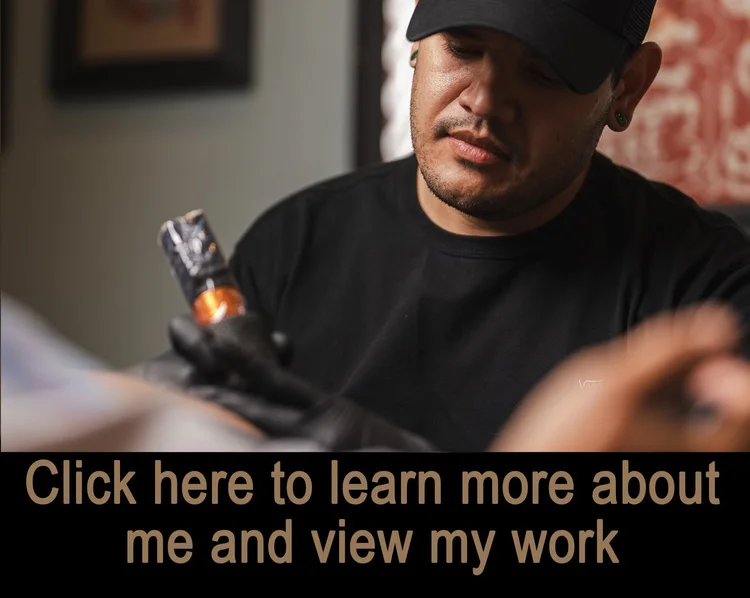
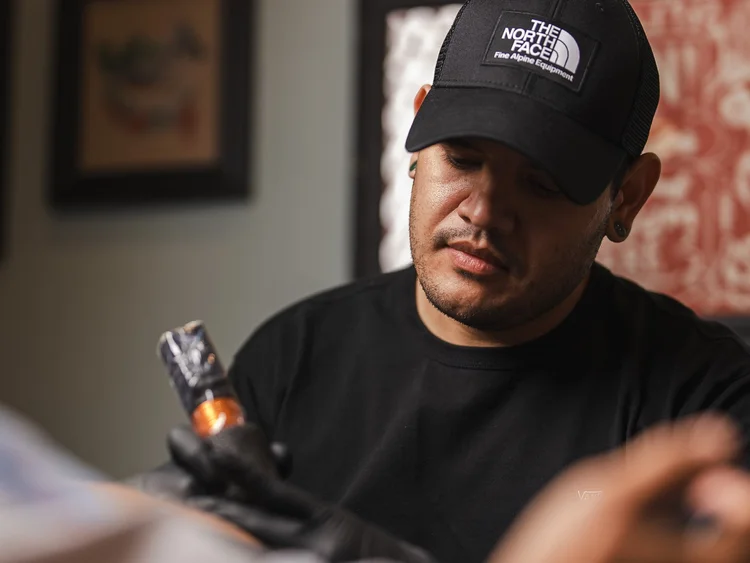
feat: clean artist photos, comprehensive SEO, and AI discoverability
- Replace artist profile photos with clean versions (no Squarespace overlay)
- Schema.org structured data: TattooParlor + LocalBusiness on homepage
  with AggregateRating, reviews, employees, services, and area served
- FAQ structured data on info page for Google rich results
- SEO-optimized title tags with location keywords on all 7 pages
- Canonical URLs on all pages
- sitemap.xml with all pages
- robots.txt with sitemap reference
- llms.txt for AI assistant discoverability (ChatGPT, Claude, etc.)

diff --git a/public/index.html b/public/index.html
@@ -3,7 +3,7 @@
 <head>
   <meta charset="UTF-8">
   <meta name="viewport" content="width=device-width, initial-scale=1.0">
-  <title>Powerline Tattoo — New England's Premier Custom Tattoo Studio</title>
+  <title>Powerline Tattoo | Custom Tattoo Shop in Cranston RI — Award-Winning Artists</title>
   <meta name="description" content="Powerline Tattoo in Cranston, RI — New England's premier custom tattoo studio. Award-winning artists, appointment only. Realism, traditional, neo-traditional, and more.">
   <meta property="og:title" content="Powerline Tattoo — New England's Premier Custom Tattoo Studio">
   <meta property="og:description" content="Award-winning custom tattoo studio in Cranston, Rhode Island. 9 talented artists, appointment only.">
@@ -14,6 +14,105 @@
   <link rel="preconnect" href="https://fonts.googleapis.com">
   <link href="https://fonts.googleapis.com/css2?family=Inter:wght@300;400;600;700&family=Montserrat:wght@300;600;700;800&display=swap" rel="stylesheet">
   <link rel="stylesheet" href="/css/styles.css">
+  <link rel="canonical" href="https://powerlinetattoo.com/">
+  <script type="application/ld+json">
+  {
+    "@context": "https://schema.org",
+    "@type": "TattooParlor",
+    "name": "Powerline Tattoo",
+    "alternateName": "PowerLine Tattoo",
+    "description": "New England's #1 custom tattoo studio. Award-winning artists specializing in realism, neo-traditional, American traditional, black & grey, and more. Appointment only.",
+    "url": "https://powerlinetattoo.com",
+    "telephone": "+1-401-369-7771",
+    "email": "powerlinetattoo@gmail.com",
+    "address": {
+      "@type": "PostalAddress",
+      "streetAddress": "706 Reservoir Avenue",
+      "addressLocality": "Cranston",
+      "addressRegion": "RI",
+      "postalCode": "02910",
+      "addressCountry": "US"
+    },
+    "geo": {
+      "@type": "GeoCoordinates",
+      "latitude": 41.7721,
+      "longitude": -71.4352
+    },
+    "image": "https://powerlinetattoo.com/images/shop/shop-01.jpg",
+    "logo": "https://powerlinetattoo.com/images/logo/powerline-logo.png",
+    "priceRange": "$$",
+    "openingHoursSpecification": {
+      "@type": "OpeningHoursSpecification",
+      "dayOfWeek": ["Monday","Tuesday","Wednesday","Thursday","Friday","Saturday"],
+      "description": "By Appointment Only"
+    },
+    "sameAs": [
+      "https://www.instagram.com/powerlinetattoo",
+      "https://www.instagram.com/evanolintattoo"
+    ],
+    "aggregateRating": {
+      "@type": "AggregateRating",
+      "ratingValue": "4.9",
+      "reviewCount": "312",
+      "bestRating": "5"
+    },
+    "review": [
+      {
+        "@type": "Review",
+        "author": {"@type": "Person", "name": "Mike R."},
+        "reviewRating": {"@type": "Rating", "ratingValue": "5"},
+        "reviewBody": "I drove two hours to get tattooed at Powerline and I'd do it again in a heartbeat. The artist took my rough idea and turned it into something beyond what I imagined."
+      },
+      {
+        "@type": "Review",
+        "author": {"@type": "Person", "name": "Sarah T."},
+        "reviewRating": {"@type": "Rating", "ratingValue": "5"},
+        "reviewBody": "I was nervous about getting my first tattoo but the whole team made me feel completely at ease. This is the only shop I'll go to."
+      },
+      {
+        "@type": "Review",
+        "author": {"@type": "Person", "name": "James D."},
+        "reviewRating": {"@type": "Rating", "ratingValue": "5"},
+        "reviewBody": "I've been tattooed at shops across New England and Powerline is a cut above. Professional, clean, and the artists genuinely care about doing exceptional work."
+      }
+    ],
+    "employee": [
+      {"@type": "Person", "name": "Evan Olin", "jobTitle": "Owner & Lead Artist", "sameAs": "https://www.instagram.com/evanolintattoo"},
+      {"@type": "Person", "name": "Mike Ledoux", "jobTitle": "Tattoo Artist", "sameAs": "https://www.instagram.com/mledouxtattoo"},
+      {"@type": "Person", "name": "Mikey Romasco", "jobTitle": "Tattoo Artist", "sameAs": "https://www.instagram.com/mikeyffresh"},
+      {"@type": "Person", "name": "Andy Large", "jobTitle": "Tattoo Artist", "sameAs": "https://www.instagram.com/andylargetattoo"},
+      {"@type": "Person", "name": "Andrey Vasilyev", "jobTitle": "Tattoo Artist", "sameAs": "https://www.instagram.com/andreytattooing"},
+      {"@type": "Person", "name": "DJ Lebeau", "jobTitle": "Tattoo Artist", "sameAs": "https://www.instagram.com/artworkby_dj"},
+      {"@type": "Person", "name": "Dana Morse", "jobTitle": "Tattoo Artist", "sameAs": "https://www.instagram.com/danamorsetattoos"},
+      {"@type": "Person", "name": "Jake Meo", "jobTitle": "Tattoo Artist", "sameAs": "https://www.instagram.com/jakemeotattoo"},
+      {"@type": "Person", "name": "Chris Valencia", "jobTitle": "Tattoo Artist", "sameAs": "https://www.instagram.com/cvalencia7"}
+    ],
+    "hasOfferCatalog": {
+      "@type": "OfferCatalog",
+      "name": "Tattoo Services",
+      "itemListElement": [
+        {"@type": "Offer", "itemOffered": {"@type": "Service", "name": "Custom Tattoo Design"}},
+        {"@type": "Offer", "itemOffered": {"@type": "Service", "name": "Realism Tattoos"}},
+        {"@type": "Offer", "itemOffered": {"@type": "Service", "name": "Portrait Tattoos"}},
+        {"@type": "Offer", "itemOffered": {"@type": "Service", "name": "Neo-Traditional Tattoos"}},
+        {"@type": "Offer", "itemOffered": {"@type": "Service", "name": "American Traditional Tattoos"}},
+        {"@type": "Offer", "itemOffered": {"@type": "Service", "name": "Black and Grey Tattoos"}},
+        {"@type": "Offer", "itemOffered": {"@type": "Service", "name": "Color Tattoos"}},
+        {"@type": "Offer", "itemOffered": {"@type": "Service", "name": "Cover-Up Tattoos"}},
+        {"@type": "Offer", "itemOffered": {"@type": "Service", "name": "Tattoo Consultation"}}
+      ]
+    },
+    "areaServed": [
+      {"@type": "City", "name": "Cranston", "containedInPlace": {"@type": "State", "name": "Rhode Island"}},
+      {"@type": "City", "name": "Providence", "containedInPlace": {"@type": "State", "name": "Rhode Island"}},
+      {"@type": "City", "name": "Warwick", "containedInPlace": {"@type": "State", "name": "Rhode Island"}},
+      {"@type": "State", "name": "Rhode Island"},
+      {"@type": "State", "name": "Massachusetts"},
+      {"@type": "State", "name": "Connecticut"}
+    ],
+    "knowsAbout": ["tattoo", "custom tattoo", "realism tattoo", "portrait tattoo", "traditional tattoo", "neo-traditional tattoo", "black and grey tattoo", "color tattoo", "tattoo aftercare"]
+  }
+  </script>
 </head>
 <body data-page="home">
 

diff --git a/public/info.html b/public/info.html
@@ -3,7 +3,7 @@
 <head>
   <meta charset="UTF-8">
   <meta name="viewport" content="width=device-width, initial-scale=1.0">
-  <title>Info — Powerline Tattoo</title>
+  <title>Tattoo FAQ & Aftercare Instructions | Powerline Tattoo Cranston RI</title>
   <meta name="description" content="FAQ, aftercare instructions, and release form for Powerline Tattoo in Cranston, RI. Everything you need to know before, during, and after your tattoo.">
   <meta property="og:title" content="Info — Powerline Tattoo">
   <meta property="og:description" content="FAQ, tattoo aftercare, and release form. Appointment only — no walk-ins.">
@@ -13,6 +13,55 @@
   <link rel="preconnect" href="https://fonts.googleapis.com">
   <link href="https://fonts.googleapis.com/css2?family=Inter:wght@300;400;600;700&family=Montserrat:wght@300;600;700;800&display=swap" rel="stylesheet">
   <link rel="stylesheet" href="/css/styles.css">
+  <link rel="canonical" href="https://powerlinetattoo.com/info">
+  <script type="application/ld+json">
+  {
+    "@context": "https://schema.org",
+    "@type": "FAQPage",
+    "mainEntity": [
+      {
+        "@type": "Question",
+        "name": "Do you accept walk-ins?",
+        "acceptedAnswer": {"@type": "Answer", "text": "As a private studio we do not keep walk-in hours. All consultations and tattoos are done by appointment only."}
+      },
+      {
+        "@type": "Question",
+        "name": "How old do I need to be to get tattooed?",
+        "acceptedAnswer": {"@type": "Answer", "text": "At least 18 years of age, with a valid photo ID (license, state ID, passport). A photocopy is required for health department records."}
+      },
+      {
+        "@type": "Question",
+        "name": "How do I go about making a tattoo appointment?",
+        "acceptedAnswer": {"@type": "Answer", "text": "Fill out the tattoo request form on the contact page. An artist suited to your request will be assigned. You may consult in-person or via email. A deposit is required when scheduling."}
+      },
+      {
+        "@type": "Question",
+        "name": "How does tattoo pricing work at Powerline Tattoo?",
+        "acceptedAnswer": {"@type": "Answer", "text": "For the most part, our artists charge by the hour, however some tattoos are priced by the piece. The artist provides an estimate before booking."}
+      },
+      {
+        "@type": "Question",
+        "name": "How should I prepare for my tattoo appointment?",
+        "acceptedAnswer": {"@type": "Answer", "text": "Get a good night's sleep, eat a good meal beforehand, wear appropriate clothing, keep good personal hygiene, and relax."}
+      },
+      {
+        "@type": "Question",
+        "name": "Can I bring someone with me to my tattoo appointment?",
+        "acceptedAnswer": {"@type": "Answer", "text": "No, unfortunately we are not allowing guests to attend your appointment with you, unless they are also getting tattooed."}
+      },
+      {
+        "@type": "Question",
+        "name": "What forms of payment does Powerline Tattoo accept?",
+        "acceptedAnswer": {"@type": "Answer", "text": "We accept credit cards (Visa, Mastercard, and Discover) and cash. There is a 4% charge added to any purchase made with a credit card. Checks are not accepted."}
+      },
+      {
+        "@type": "Question",
+        "name": "Should I tip my tattoo artist?",
+        "acceptedAnswer": {"@type": "Answer", "text": "Tipping is a common practice if you are happy with your tattoo. A suggested range is 15-20%, though any amount is appreciated and not mandatory."}
+      }
+    ]
+  }
+  </script>
   <style>
     /* =============================================
        INFO PAGE STYLES

diff --git a/public/artists.html b/public/artists.html
@@ -3,7 +3,7 @@
 <head>
   <meta charset="UTF-8">
   <meta name="viewport" content="width=device-width, initial-scale=1.0">
-  <title>Artists — Powerline Tattoo</title>
+  <title>Tattoo Artists in Cranston RI | Realism, Traditional, Neo-Trad — Powerline Tattoo</title>
   <meta name="description" content="Meet the artists at Powerline Tattoo in Cranston, RI. 9 talented tattoo artists specializing in realism, neo-traditional, American traditional, black & grey, and more.">
   <meta property="og:title" content="Artists — Powerline Tattoo">
   <meta property="og:description" content="Meet our 9 talented tattoo artists. Each with a distinct voice and commitment to exceptional work.">
@@ -13,6 +13,7 @@
   <link rel="preconnect" href="https://fonts.googleapis.com">
   <link href="https://fonts.googleapis.com/css2?family=Inter:wght@300;400;600;700&family=Montserrat:wght@300;600;700;800&display=swap" rel="stylesheet">
   <link rel="stylesheet" href="/css/styles.css">
+  <link rel="canonical" href="https://powerlinetattoo.com/artists">
   <style>
     /* =============================================
        ARTISTS PAGE STYLES

diff --git a/public/about.html b/public/about.html
@@ -3,7 +3,7 @@
 <head>
   <meta charset="UTF-8">
   <meta name="viewport" content="width=device-width, initial-scale=1.0">
-  <title>About — Powerline Tattoo</title>
+  <title>About Powerline Tattoo | Private Custom Tattoo Studio in Cranston, Rhode Island</title>
   <meta name="description" content="About Powerline Tattoo — a private custom tattoo studio in Cranston, RI. Award-winning artists, hospital-grade sterilization, appointment only since 2010.">
   <meta property="og:title" content="About — Powerline Tattoo">
   <meta property="og:description" content="A private custom tattoo studio offering one-on-one attention and award-winning artistry.">
@@ -13,6 +13,7 @@
   <link rel="preconnect" href="https://fonts.googleapis.com">
   <link href="https://fonts.googleapis.com/css2?family=Inter:wght@300;400;600;700&family=Montserrat:wght@300;600;700;800&display=swap" rel="stylesheet">
   <link rel="stylesheet" href="/css/styles.css">
+  <link rel="canonical" href="https://powerlinetattoo.com/about">
   <style>
     /* =============================================
        ABOUT PAGE STYLES

diff --git a/public/book.html b/public/book.html
@@ -3,7 +3,7 @@
 <head>
   <meta charset="UTF-8">
   <meta name="viewport" content="width=device-width, initial-scale=1.0">
-  <title>Book Your Session — Powerline Tattoo</title>
+  <title>Book a Tattoo Appointment | Schedule Online — Powerline Tattoo Cranston RI</title>
   <meta name="description" content="Book a tattoo appointment at Powerline Tattoo in Cranston, RI. Choose your artist, share your idea, and schedule your session online.">
   <meta property="og:title" content="Book Your Session — Powerline Tattoo">
   <meta property="og:description" content="Schedule a custom tattoo appointment. Choose from 9 artists, share your vision, and get started.">
@@ -13,6 +13,7 @@
   <link rel="preconnect" href="https://fonts.googleapis.com">
   <link href="https://fonts.googleapis.com/css2?family=Inter:wght@300;400;600;700&family=Montserrat:wght@300;600;700;800&display=swap" rel="stylesheet">
   <link rel="stylesheet" href="/css/styles.css">
+  <link rel="canonical" href="https://powerlinetattoo.com/book">
   <style>
     /* ---- Booking Widget ---- */
     .booking-widget {

diff --git a/public/contact.html b/public/contact.html
@@ -3,7 +3,7 @@
 <head>
   <meta charset="UTF-8">
   <meta name="viewport" content="width=device-width, initial-scale=1.0">
-  <title>Contact — Powerline Tattoo</title>
+  <title>Contact Powerline Tattoo | 401-369-7771 | Cranston RI Tattoo Shop</title>
   <meta name="description" content="Contact Powerline Tattoo in Cranston, RI. Call 401-369-7771, email us, or send a message. 706 Reservoir Ave, Cranston RI 02910.">
   <meta property="og:title" content="Contact — Powerline Tattoo">
   <meta property="og:description" content="Get in touch with Powerline Tattoo. Phone, email, directions, and all artist Instagram accounts.">
@@ -13,6 +13,7 @@
   <link rel="preconnect" href="https://fonts.googleapis.com">
   <link href="https://fonts.googleapis.com/css2?family=Inter:wght@300;400;600;700&family=Montserrat:wght@300;600;700;800&display=swap" rel="stylesheet">
   <link rel="stylesheet" href="/css/styles.css">
+  <link rel="canonical" href="https://powerlinetattoo.com/contact">
   <style>
     /* ---- Contact Grid ---- */
     .contact-grid {

diff --git a/public/gallery.html b/public/gallery.html
@@ -3,7 +3,7 @@
 <head>
   <meta charset="UTF-8">
   <meta name="viewport" content="width=device-width, initial-scale=1.0">
-  <title>Gallery — Powerline Tattoo</title>
+  <title>Tattoo Gallery & Portfolio | Custom Tattoo Work — Powerline Tattoo Cranston RI</title>
   <meta name="description" content="Browse the tattoo portfolio at Powerline Tattoo. Custom work from 9 artists — realism, traditional, neo-traditional, black & grey, and more.">
   <meta property="og:title" content="Gallery — Powerline Tattoo">
   <meta property="og:description" content="Custom tattoo portfolio from New England's premier tattoo studio. Filter by artist.">
@@ -13,6 +13,7 @@
   <link rel="preconnect" href="https://fonts.googleapis.com">
   <link href="https://fonts.googleapis.com/css2?family=Inter:wght@300;400;600;700&family=Montserrat:wght@300;600;700;800&display=swap" rel="stylesheet">
   <link rel="stylesheet" href="/css/styles.css">
+  <link rel="canonical" href="https://powerlinetattoo.com/gallery">
 </head>
 <body data-page="gallery">
 
